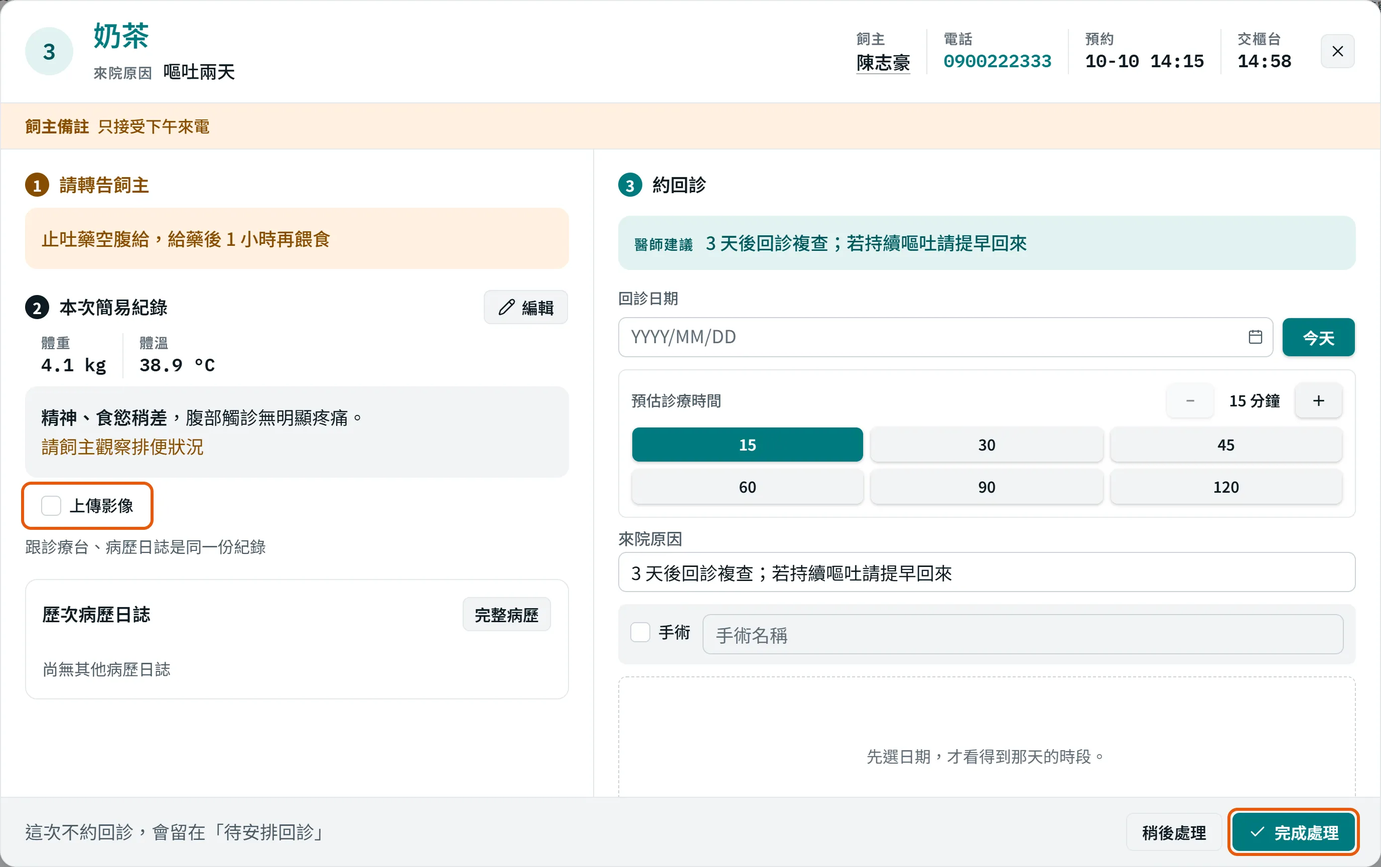
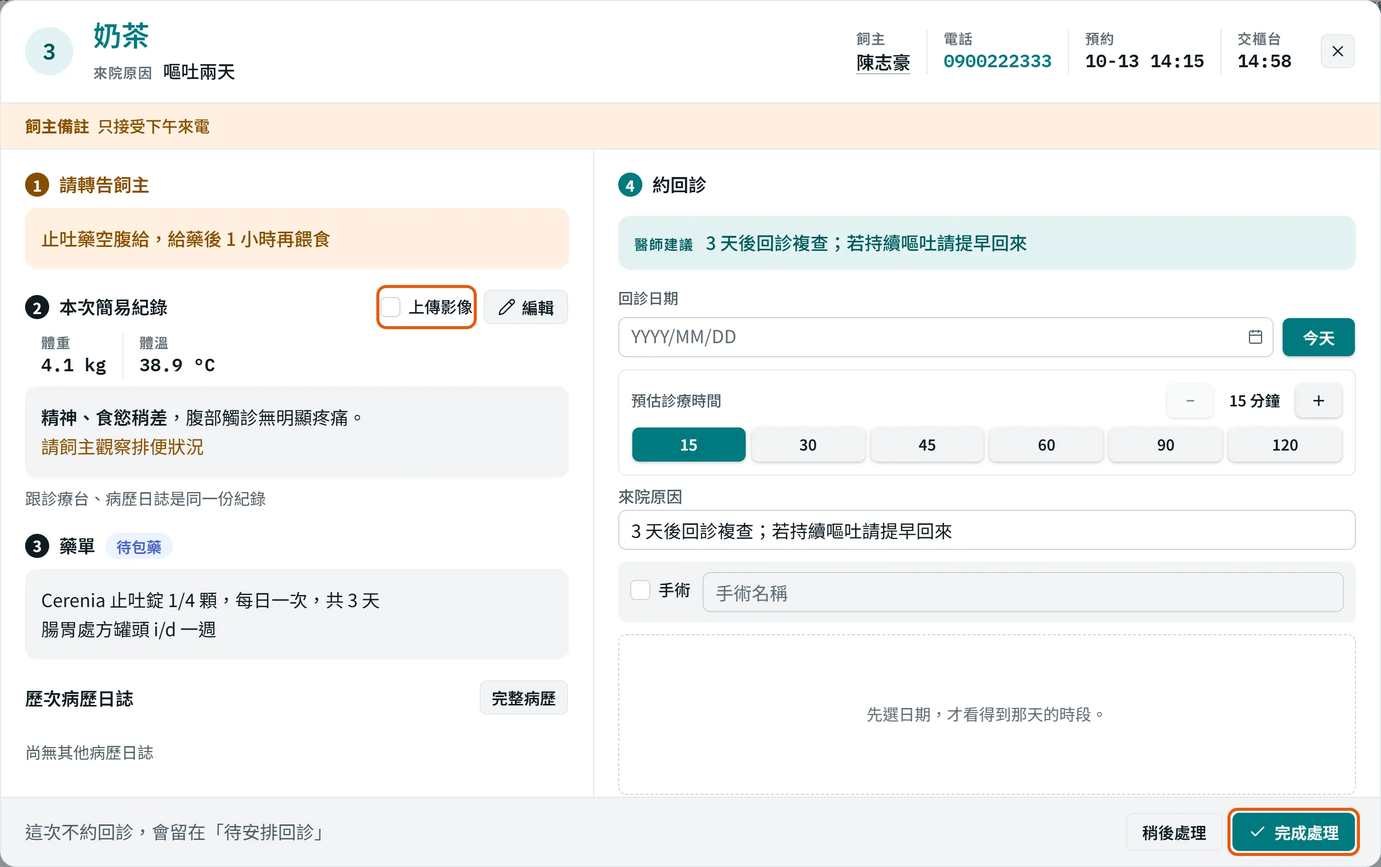
feat: update image upload handling in appointment workflow
- Modify the `imageUpload` field behavior to store the state in the UI and only send it to the backend upon completing the appointment.
- Update the `complete` action to include the `imageUpload` state, ensuring it reflects the current selection.
- Enhance the `HandoffSheet` component to manage the image upload checkbox, linking it to the appointment's state.
- Adjust the `STYLE_GUIDE.md` to reflect changes in the HandoffSheet layout and functionality.
- Add tests to verify the correct behavior of the image upload feature during the appointment completion process.

diff --git a/client/src/components/HandoffSheet.vue b/client/src/components/HandoffSheet.vue
@@ -1,14 +1,18 @@
 <script setup>
 import { usePetClinicalNotes } from '../composables/usePetClinicalNotes';
 import { apiErrorMessage } from '../lib/apiError.js';
-import { computed, nextTick, ref, watch } from 'vue';
+import { computed, nextTick, onBeforeUnmount, onMounted, ref, watch } from 'vue';
 import PatientLink from './PatientLink.vue';
 import { CalendarCheck, Check, Pencil, Undo2, X } from '@lucide/vue';
 import { http } from '../api/http';
+import { getSocket } from '../api/socket';
 import { useAppointmentNotifier } from '../composables/useAppointmentNotifier';
 import { useStaffIdentity } from '../composables/useStaffIdentity';
 import { describeVisitChanges } from '../lib/appointmentNotifications';
 import { workflowState } from '../../../shared/appointmentWorkflow.js';
+import { medicationLabel } from '../../../shared/medicationWorkflow.js';
+import { medicationStageTone } from '../lib/clinicalNoteDisplay.js';
+import ConfirmDialog from './ConfirmDialog.vue';
 import { DEFAULT_ESTIMATED_DURATION_MINUTES, appointmentSlotErrors } from '../lib/appointmentTime';
 import AppointmentSlotPicker from './AppointmentSlotPicker.vue';
 import SurgeryField from './SurgeryField.vue';
@@ -33,11 +37,11 @@ import RichTextEditor from './RichTextEditor.vue';
 import { richTextToPlain } from '../../../shared/richText.js';
 import { Dialog, DialogContent, DialogDescription, DialogTitle } from './ui/dialog';
 
-// 櫃台處理視窗。左欄「跟飼主說」照當面講話的順序編號：請轉告飼主 → 本次簡易紀錄，下面接著歷次病歷日誌
+// 櫃台處理視窗。左欄「跟飼主說」照當面講話的順序編號：請轉告飼主 → 本次簡易紀錄 → 藥單（交藥），下面接著歷次病歷日誌
 // （飼主常會問「上次開的藥還能吃嗎」）；轉告事項最容易漏掉，所以放最上面並用警示底色。
 // 右欄是約回診：大部分就診都會當場約，所以打開就看得到時段格，醫師建議就貼在時段旁邊。
 // 舊版是左欄一路往下疊、時段格在最底下要捲，右欄常駐日誌，使用者覺得資訊太散、找不到重點。
-// 收費與領藥櫃台直接處理，系統不計價，所以沒有「醫師交辦」這一段。
+// 收費櫃台直接處理，系統不計價，所以沒有「醫師交辦」這一段；領藥走藥單的「確認領藥」，在 ③ 就能按。
 const props = defineProps({
   appointment: { type: Object, required: true },
   // 貓咪／飼主備註（patientNotesFor 的回傳）。飼主就站在櫃台前，「處置前先說明費用」這類事要先看到。
@@ -177,16 +181,15 @@ async function saveNote() {
     error.value = err.response?.data?.message || err.message || '儲存失敗，請重試';
   } finally { busy.value = false; }
 }
-// 「上傳影像」一勾就存：後端同一次把它寫進病歷日誌，並新增（取消勾選則收掉）一筆院內待辦。
-async function toggleImageUpload(checked) {
-  if (busy.value || state.value.completed) return;
-  busy.value = true;
-  error.value = '';
-  try {
-    await run('clinical', { imageUpload: checked === true, staff: identity.value }, { silentToast: true });
-  } catch (err) {
-    error.value = apiErrorMessage(err, '儲存失敗，請重試');
-  } finally { busy.value = false; }
+// 「上傳影像」先記在這個視窗，按完成處理才跟著送出：後端同一個 transaction 寫進病歷日誌，並新增（取消勾選則收掉）
+// 一筆院內待辦。勾錯、改主意、按稍後處理都不會先建待辦又收掉。別台裝置改了（例如退回處理中後重新完成）就跟著更新。
+const imageUploadDraft = ref(Boolean(props.appointment.imageUpload));
+watch(() => props.appointment.imageUpload, (value) => { imageUploadDraft.value = Boolean(value); });
+// 只有勾選跟目前存的不同才送：從沒勾過（null）的就診不能在完成時被寫成「否」，病歷日誌會多出一行「上傳影像：否」。
+function imageUploadChange() {
+  return imageUploadDraft.value === Boolean(props.appointment.imageUpload)
+    ? {}
+    : { imageUpload: imageUploadDraft.value, staff: identity.value };
 }
 function close() { if (!busy.value) emit('close'); }
 
@@ -199,6 +202,54 @@ async function run(action, values = {}, options = {}) {
 
 loadNotes();
 loadDepositState();
+
+// ③ 藥單：內容就是這次看診的藥單（診療台開的，這裡只看不改，要改得請醫師取回）；
+// 階段讀送交櫃台時建立的那張藥單（medicationOrderId）。交藥是這一步要做的事，所以待領藥時直接在這裡確認領藥——
+// 跟藥單面板的「確認領藥」同一支 API、同一句確認，不另立規則。
+const medicationOrder = ref(null);
+const medicationError = ref('');
+const collecting = ref(false);
+const confirmingCollect = ref(false);
+let medicationRequest = 0;
+async function loadMedicationOrder() {
+  const id = props.appointment.medicationOrderId;
+  const request = ++medicationRequest;
+  if (!id) {
+    medicationOrder.value = null;
+    return;
+  }
+  try {
+    const { data } = await http.get(`/medications/${id}`);
+    if (request === medicationRequest) medicationOrder.value = data;
+  } catch (err) {
+    if (request === medicationRequest) medicationError.value = apiErrorMessage(err, '藥單讀取失敗，請重新開啟');
+  }
+}
+watch(() => props.appointment.medicationOrderId, () => {
+  medicationError.value = '';
+  loadMedicationOrder();
+}, { immediate: true });
+// 藥單面板或醫師那邊動了藥單（包好、退回、改內容），伺服器只廣播「請重讀」。
+const socket = getSocket();
+onMounted(() => socket.on('medication:updated', loadMedicationOrder));
+onBeforeUnmount(() => socket.off('medication:updated', loadMedicationOrder));
+
+async function collectMedication() {
+  const order = medicationOrder.value;
+  if (!order || collecting.value) return;
+  collecting.value = true;
+  medicationError.value = '';
+  try {
+    const { data } = await http.post(`/medications/${order._id}/actions/collect`, { version: order.__v });
+    medicationOrder.value = data;
+  } catch (err) {
+    medicationError.value = apiErrorMessage(err, '確認領藥失敗，請重試');
+    loadMedicationOrder();
+  } finally {
+    collecting.value = false;
+    confirmingCollect.value = false;
+  }
+}
 
 function handleHistoricalNoteSaved({ note, content }) {
   notifyChat(props.appointment, 'visit_data', {
@@ -293,7 +344,7 @@ async function complete() {
   busy.value = true;
   try {
     if (followUpStarted.value) await run('followup', followUpPayload(), { silentToast: true });
-    await run('complete');
+    await run('complete', imageUploadChange());
     emit('close');
   } catch (err) {
     error.value = err.response?.data?.message || err.message || '操作失敗，請稍後重試';
@@ -385,10 +436,16 @@ async function reopen() {
             </section>
 
             <section class="space-y-2" aria-labelledby="desk-note-heading">
-              <div class="flex items-center gap-2.5">
+              <div class="flex flex-wrap items-center gap-2.5">
                 <span class="flex size-6 shrink-0 items-center justify-center rounded-full bg-foreground text-xs font-bold text-card" aria-hidden="true">2</span>
                 <h3 id="desk-note-heading" class="text-base font-semibold">本次簡易紀錄</h3>
-                <Button v-if="!editingNote && !state.completed" variant="secondary" size="sm" class="ml-auto" :disabled="busy" @click="startEditNote"><Pencil stroke-width="1.75" />編輯</Button>
+                <!-- 上傳影像是這一段的選項，放標題列：夾在紀錄框和它的說明、儲存鈕中間時，說明看起來像在講上傳影像。
+                     按完成處理才送出，送出後出現在病歷日誌，並新增一筆院內待辦。 -->
+                <label for="desk-image-upload" class="ml-auto flex min-h-9 cursor-pointer items-center gap-2 text-sm font-medium">
+                  <Checkbox id="desk-image-upload" :model-value="imageUploadDraft" :disabled="busy || state.completed" @update:model-value="imageUploadDraft = $event === true" />
+                  上傳影像
+                </label>
+                <Button v-if="!editingNote && !state.completed" variant="secondary" size="sm" :disabled="busy" @click="startEditNote"><Pencil stroke-width="1.75" />編輯</Button>
               </div>
               <!-- 體重、體溫是這次看診的資料，跟紀錄放同一段、排在紀錄上面（講紀錄時常順便說「今天幾公斤」）。
                    這裡只看不改：量測是診療台的欄位。沒量就留白，格子照畫。 -->
@@ -407,11 +464,6 @@ async function reopen() {
                 <p v-else class="my-2">（空白）</p>
                 <Button variant="secondary" size="sm" :disabled="busy" @click="resetNote">採用最新內容</Button>
               </Alert>
-              <!-- 勾了會出現在病歷日誌，並新增一筆院內待辦；一勾就存，不必按儲存。 -->
-              <label for="desk-image-upload" class="flex min-h-10 w-fit cursor-pointer items-center gap-2 px-4 text-sm font-medium">
-                <Checkbox id="desk-image-upload" :model-value="Boolean(appointment.imageUpload)" :disabled="busy || state.completed" @update:model-value="toggleImageUpload" />
-                上傳影像
-              </label>
               <div class="flex flex-wrap items-center justify-between gap-2">
                 <p class="text-sm text-muted-foreground" role="status">{{ state.completed ? '已結案，退回處理中才能編輯' : editingNote ? '按「儲存」才會保存；取消或關閉會放棄修改' : noteSaved ? '已儲存' : '跟診療台、病歷日誌是同一份紀錄' }}</p>
                 <div v-if="editingNote" class="flex gap-2">
@@ -419,6 +471,19 @@ async function reopen() {
                   <Button size="sm" :disabled="busy || noteConflict || state.completed" @click="saveNote">儲存</Button>
                 </div>
               </div>
+            </section>
+
+            <section class="space-y-2" aria-labelledby="desk-medication-heading">
+              <div class="flex flex-wrap items-center gap-2.5">
+                <span class="flex size-6 shrink-0 items-center justify-center rounded-full bg-foreground text-xs font-bold text-card" aria-hidden="true">3</span>
+                <h3 id="desk-medication-heading" class="text-base font-semibold">藥單</h3>
+                <Badge v-if="medicationOrder" variant="status" :class="medicationStageTone(medicationOrder.status)">{{ medicationLabel(medicationOrder.status) }}</Badge>
+                <Badge v-if="medicationOrder?.needsRepack" variant="status" class="bg-danger-surface text-danger">需重新包藥</Badge>
+                <Button v-if="medicationOrder?.status === 'ready'" variant="soft" size="sm" class="ml-auto" :disabled="collecting" @click="confirmingCollect = true">確認領藥</Button>
+              </div>
+              <!-- 內容只看不改（醫師在診療台開的）。跟紀錄一樣：沒開就留白，格子照畫。 -->
+              <RichText class="min-h-[calc(1lh+2rem)] wrap-anywhere rounded-xl bg-sunken p-4 leading-relaxed" :text="appointment.prescription || ''" />
+              <p v-if="medicationError" class="text-sm text-danger" role="alert">{{ medicationError }}</p>
             </section>
 
             <!-- 歷次病歷日誌直接展開在下面（使用者要求，不收進頁籤）：飼主常會問「上次開的藥還能吃嗎」。 -->
@@ -435,9 +500,10 @@ async function reopen() {
             />
           </div>
 
-          <section class="space-y-4 px-6 py-5 lg:min-h-0 lg:overflow-y-auto lg:overscroll-contain" aria-labelledby="desk-followup-heading">
+          <!-- 一律預留捲軸的位置：約回診的時段選擇器依自己的寬度決定並排或上下疊，捲軸出現與否（例如多了保證金那塊）不能讓同一個視窗大小換排法。 -->
+          <section class="space-y-4 px-6 py-5 lg:min-h-0 lg:overflow-y-auto lg:overscroll-contain lg:[scrollbar-gutter:stable]" aria-labelledby="desk-followup-heading">
             <div class="flex items-center gap-2.5">
-              <span class="flex size-6 shrink-0 items-center justify-center rounded-full bg-primary text-xs font-bold text-primary-foreground" aria-hidden="true">3</span>
+              <span class="flex size-6 shrink-0 items-center justify-center rounded-full bg-primary text-xs font-bold text-primary-foreground" aria-hidden="true">4</span>
               <h3 id="desk-followup-heading" class="text-base font-semibold">約回診</h3>
             </div>
             <!-- 標籤跟內容同一行，標籤不另佔一行。醫師沒寫也照樣留這一格、內容空白，不補說明文字。 -->
@@ -514,6 +580,15 @@ async function reopen() {
           </div>
         </footer>
       </div>
+      <ConfirmDialog
+        :open="confirmingCollect"
+        :title="`確認 ${appointment.petName} 已領藥？`"
+        :description="`請核對飼主 ${medicationOrder?.ownerName || appointment.ownerName || ''}（${medicationOrder?.ownerPhone || appointment.ownerPhone || ''}）與藥包，確認已交付。`"
+        confirm-label="確認領藥"
+        :loading="collecting"
+        @update:open="confirmingCollect = $event"
+        @confirm="collectMedication"
+      />
     </DialogContent>
   </Dialog>
 </template>

diff --git a/docs/manual/index.html b/docs/manual/index.html
@@ -208,7 +208,7 @@ footer.end { color: var(--subtle); font-size: 14px; text-align: center; }
   <main>
     <header class="cover">
       <h1>診所系統使用手冊</h1>
-      <p class="lead">給醫師與櫃台：按下每一顆按鈕之後，系統在背後會自動做哪些事。很多事情是連鎖發生的，例如送交櫃台時藥單就進了待包藥、勾「上傳影像」就多一筆待辦、取消報到時病歷日誌會暫時拿掉。知道這些，就不會在畫面上找不到東西。</p>
+      <p class="lead">給醫師與櫃台：按下每一顆按鈕之後，系統在背後會自動做哪些事。很多事情是連鎖發生的，例如送交櫃台時藥單就進了待包藥、勾「上傳影像」再完成處理就多一筆待辦、取消報到時病歷日誌會暫時拿掉。知道這些，就不會在畫面上找不到東西。</p>
       <div class="legend">
         <span><span class="who vet">醫師</span> 醫師做的事</span>
         <span><span class="who desk">櫃台</span> 櫃台做的事</span>
@@ -462,20 +462,21 @@ footer.end { color: var(--subtle); font-size: 14px; text-align: center; }
 
     <section class="chapter" id="desk">
       <h2><span class="n">07</span>櫃台處理</h2>
-      <p class="sub">掛號台按 <span class="ui">處理</span>。視窗照跟飼主講話的順序排：① 請轉告飼主、② 本次簡易紀錄、③ 約回診。</p>
+      <p class="sub">掛號台按 <span class="ui">處理</span>。視窗照跟飼主講話的順序排：① 請轉告飼主、② 本次簡易紀錄、③ 藥單、④ 約回診。</p>
       <figure class="shot">
-        <div class="frame"><img src="images/11-handoff-sheet.webp" alt="櫃台處理視窗：請轉告飼主、本次簡易紀錄與上傳影像、約回診時段" loading="lazy"></div>
+        <div class="frame"><img src="images/11-handoff-sheet.webp" alt="櫃台處理視窗：請轉告飼主、本次簡易紀錄與上傳影像、藥單、約回診時段" loading="lazy"></div>
         <figcaption>櫃台處理視窗。框起來的是「上傳影像」勾選框與 <span class="ui">完成處理</span>。</figcaption>
       </figure>
       <div class="flow">
         <div class="row"><span class="who desk">櫃台</span><div><ul>
           <li>① 請轉告飼主：有內容時是橘底，一定要講。</li>
           <li>② 本次簡易紀錄：看體重、體溫與醫師的紀錄；下面直接展開這隻貓的歷次病歷日誌。</li>
-          <li>③ 約回診：上面是醫師建議。選日期、時段，按 <span class="ui">完成處理</span> 時一起約好。</li>
+          <li>③ 藥單：醫師開的藥，旁邊是藥單現在的階段（待包藥、待領藥…）。這裡只能看，內容要改請醫師取回。到了<strong>待領藥</strong>，交藥給飼主時直接按 <span class="ui">確認領藥</span>，跟藥單面板的確認領藥是同一件事。</li>
+          <li>④ 約回診：上面是醫師建議。選日期、時段，按 <span class="ui">完成處理</span> 時一起約好。</li>
           <li><span class="ui">稍後處理</span> 只是關掉視窗，什麼都不改。</li>
         </ul></div></div>
         <div class="row auto"><span class="who auto">系統自動</span><div><ul>
-          <li><strong>勾「上傳影像」</strong>：馬上新增一筆待辦「上傳影像 #貓咪名」，病歷日誌多一列「上傳影像：是」。那筆待辦被完成時，日誌改成「已完成」加完成時間。取消勾選會把還沒完成的待辦收掉，日誌改成「否」。</li>
+          <li><strong>勾「上傳影像」</strong>：先記在視窗裡，按 <span class="ui">完成處理</span> 時才一起送出（按 <span class="ui">稍後處理</span> 關掉就不算）。送出後新增一筆待辦「上傳影像 #貓咪名」，病歷日誌多一列「上傳影像：是」。那筆待辦被完成時，日誌改成「已完成」加完成時間。取消勾選會把還沒完成的待辦收掉，日誌改成「否」。</li>
           <li><strong>約回診</strong>：同時建立下一筆掛號（回診）。之後要改時段，在已約好的回診上按 <span class="ui">修改</span>。這筆回診被取消或刪掉時，這次看診會回到「待安排回診」，可以重新約。保證金規則跟一般掛號一樣。</li>
           <li><strong>完成處理</strong>：收回號碼牌，這次看診結束並鎖定，聊天室通知。</li>
         </ul></div></div>
@@ -713,7 +714,7 @@ footer.end { color: var(--subtle); font-size: 14px; text-align: center; }
       <ul>
         <li>「明天叫貨」「回電給某某」這類院內雜事，全院共用。打 # 可以標記貓咪（不會放進暫存區）。</li>
         <li>星號＝置頂；可以設期限。勾起來＝完成，取消勾選＝改回未完成。</li>
-        <li><span class="who auto">系統自動</span> 櫃台勾「上傳影像」會新增一筆；完成它，那次看診的病歷日誌會記下完成時間。</li>
+        <li><span class="who auto">系統自動</span> 櫃台勾「上傳影像」並完成處理會新增一筆；完成它，那次看診的病歷日誌會記下完成時間。</li>
       </ul>
     </section>
 

diff --git a/server/src/lib/appointmentWorkflow.js b/server/src/lib/appointmentWorkflow.js
@@ -182,6 +182,13 @@ export function assertWorkflowVersion(appointment, version) {
 }
 
 // labItems：這次掛號範本裡的檢驗項目（route 讀範本後傳進來），用來驗證 labValues。
+// 「上傳影像」：沒帶就不動；帶了要是 true／false。勾或取消造成的院內待辦增減在路由（同一個 transaction）。
+function applyImageUpload(appointment, value) {
+  if (value === undefined) return;
+  if (typeof value !== 'boolean') throw workflowError('上傳影像的格式不正確');
+  appointment.imageUpload = value;
+}
+
 export function applyWorkflowAction(appointment, action, body, now = new Date(), { labItems = [] } = {}) {
   if (!['arrived', 'pending_checkout', 'completed'].includes(appointment.status) || !appointment.petId) {
     throw workflowError('請先完成報到，才能處理看診與交辦');
@@ -203,10 +210,7 @@ export function applyWorkflowAction(appointment, action, body, now = new Date(),
       appointment[field] = value;
     }
     if (body.labValues !== undefined) appointment.labValues = mergeLabValues(appointment.labValues, body.labValues, labItems);
-    if (body.imageUpload !== undefined) {
-      if (typeof body.imageUpload !== 'boolean') throw workflowError('上傳影像的格式不正確');
-      appointment.imageUpload = body.imageUpload;
-    }
+    applyImageUpload(appointment, body.imageUpload);
   } else if (action === 'start') {
     if (!state.handedOff) appointment.visitStartedAt ||= now;
   } else if (action === 'unstart') {
@@ -227,6 +231,8 @@ export function applyWorkflowAction(appointment, action, body, now = new Date(),
   } else if (action === 'complete') {
     if (!state.handedOff) throw workflowError('請等醫師完成看診並送交櫃台', 409);
     if (state.completed) throw workflowError('這筆就診已完成處理', 409);
+    // 櫃台處理視窗的「上傳影像」在按完成處理時才一起送出：勾錯、改主意、按稍後處理，都不會先建待辦又收掉。
+    applyImageUpload(appointment, body.imageUpload);
     appointment.deskCompletedAt = now;
   } else if (action === 'request-reopen') {
     if (!state.completed) throw workflowError('只有已完成的就診可以申請修改', 409);

diff --git a/client/src/components/AppointmentSlotPicker.vue b/client/src/components/AppointmentSlotPicker.vue
@@ -73,7 +73,8 @@ function changeDuration(delta) {
 
 <template>
   <div :class="split ? '@container' : ''">
-  <div :class="split ? 'grid gap-3 @3xl:grid-cols-[18.75rem_minmax(0,1fr)] @3xl:gap-6' : 'space-y-3'">
+  <!-- 並排的門檻 42rem：扣掉左欄 18.75rem，時段格還有約 22rem（四欄每格約 85px，放得下「14:30」）。 -->
+  <div :class="split ? 'grid gap-3 @2xl:grid-cols-[18.75rem_minmax(0,1fr)] @2xl:gap-6' : 'space-y-3'">
   <div class="space-y-3">
     <div class="space-y-2">
       <Label class="text-xs font-medium">{{ label }}<template v-if="required"><span class="text-danger" aria-hidden="true">*</span><span class="sr-only">必填</span></template></Label>
@@ -92,8 +93,9 @@ function changeDuration(delta) {
           <Button type="button" variant="secondary" size="sm" class="h-9 min-w-12 px-2 text-xs font-bold shadow-sm" :disabled="duration >= MAX_ESTIMATED_DURATION_MINUTES" aria-label="增加 15 分鐘" @click="changeDuration(15)">＋</Button>
         </div>
       </div>
-      <div :class="split ? 'grid grid-cols-3 gap-1.5' : 'flex flex-wrap gap-1.5'">
-        <Button v-for="minutes in [15, 30, 45, 60, 90, 120]" :key="minutes" type="button" size="sm" class="h-9 min-w-12 px-2 text-xs font-semibold shadow-sm" :variant="duration === minutes ? 'default' : 'secondary'" @click="duration = minutes">{{ minutes }}</Button>
+      <!-- 並排（約回診）時六個一排、平分寬度：左欄只有 18.75rem，按鈕不留最小寬度與左右內距才排得下。 -->
+      <div :class="split ? 'grid grid-cols-6 gap-1' : 'flex flex-wrap gap-1.5'">
+        <Button v-for="minutes in [15, 30, 45, 60, 90, 120]" :key="minutes" type="button" size="sm" class="h-9 text-xs font-semibold shadow-sm" :class="split ? 'min-w-0 px-0' : 'min-w-12 px-2'" :variant="duration === minutes ? 'default' : 'secondary'" @click="duration = minutes">{{ minutes }}</Button>
       </div>
     </div>
     <slot name="aside" />

diff --git a/server/src/lib/appointmentWorkflow.test.js b/server/src/lib/appointmentWorkflow.test.js
@@ -94,6 +94,24 @@ test('reclaiming a visit that was never handed off is refused', () => {
   assert.throws(() => applyWorkflowAction(p, 'reclaim', {}), { status: 409 });
 });
 
+test('完成處理時一起送出「上傳影像」；沒帶就不動，格式不對就擋', () => {
+  const ticked = appointment();
+  applyWorkflowAction(ticked, 'handoff', {});
+  applyWorkflowAction(ticked, 'complete', { imageUpload: true });
+  assert.equal(ticked.imageUpload, true);
+  assert.equal(ticked.status, 'completed');
+
+  const untouched = appointment();
+  applyWorkflowAction(untouched, 'handoff', {});
+  applyWorkflowAction(untouched, 'complete', {});
+  assert.equal(untouched.imageUpload, undefined);
+
+  const invalid = appointment();
+  applyWorkflowAction(invalid, 'handoff', {});
+  assert.throws(() => applyWorkflowAction(invalid, 'complete', { imageUpload: 'yes' }), /上傳影像的格式不正確/);
+  assert.equal(invalid.deskCompletedAt, undefined);
+});
+
 test('the desk cannot complete before the vet hands off, and cannot complete twice', () => {
   const p = appointment();
   assert.throws(() => applyWorkflowAction(p, 'complete', {}), { status: 409 });

diff --git a/client/src/components/ClinicalNotesPanel.vue b/client/src/components/ClinicalNotesPanel.vue
@@ -44,7 +44,9 @@ onBeforeUnmount(() => {
 </script>
 
 <template>
-  <section class="rounded-xl border border-border bg-field/60 p-4" :class="fill ? 'flex h-full min-h-0 flex-col' : ''">
+  <!-- 外層不畫框：每一則日誌（ClinicalNoteEntry）本身就是卡片，用的地方（處理視窗、診療台右欄、藥單、病歷速覽）
+       外面也已經有自己的區塊，再包一層框就是框中框。標題列直接接卡片清單。 -->
+  <section :class="fill ? 'flex h-full min-h-0 flex-col' : ''">
     <div class="flex items-center justify-between gap-2">
       <h3 class="text-sm font-semibold sm:text-base">{{ title }}</h3>
       <Button v-if="petId" as-child variant="secondary" size="xs">

diff --git a/docs/STYLE_GUIDE.md b/docs/STYLE_GUIDE.md
@@ -213,7 +213,7 @@ DataCard title="貓咪清單" :count
 
 - 卡片左邊是貓（最左一顆圓：號碼牌或貓圖示；名字、初診徽章、手術／遲到徽章、來院原因、請轉告飼主、飼主備註），右邊對齊的三欄：飼主／電話（附複製鈕）／進度（只有狀態與時間，沒有小標題），最右是主要動作＋`RowActions`。卡片底色只在還沒報到時用遲到（紅）／手術（紫）。
 - **掛號視窗**（`AppointmentDialog`）是置中的雙欄 Modal：左欄誰、為什麼，右欄時段格（`SlotGrid`，15 分鐘一格、格內列已約的名字）。選了貓之後下面出現出席對照表與保證金欄位。
-- **櫃台處理視窗**（`HandoffSheet`，`size="2xl"`）：標頭一排（號碼牌｜貓、徽章、來院原因｜飼主規格欄＋預約、交櫃台、完成時間），飼主備註整條攤開在標頭下。左欄「跟飼主說」照講話順序編號：①請轉告飼主（有內容才用警示底，空的灰底——空的橘框像有事要講）②本次簡易紀錄（上面一排體重、體溫，下面「上傳影像」勾選框），歷次病歷日誌直接展開在下面；右欄 ③約回診：醫師建議在上（標籤與內容同一行），`AppointmentSlotPicker split` 讓日期、診療時間、來院原因、手術一窄欄、時段格在旁邊——大部分就診都會當場約回診，時段一打開就要看得到。底部左邊一句結果（「完成後會約 10/12（週一）14:30 回診」），右邊完成處理／退回處理中／核准修改。90rem 是右欄還能並排的下限。
+- **櫃台處理視窗**（`HandoffSheet`，`size="2xl"`）：標頭一排（號碼牌｜貓、徽章、來院原因｜飼主規格欄＋預約、交櫃台、完成時間），飼主備註整條攤開在標頭下。左欄「跟飼主說」照講話順序編號：①請轉告飼主（有內容才用警示底，空的灰底——空的橘框像有事要講）②本次簡易紀錄（「上傳影像」勾選框在標題列右邊、跟「編輯」並排——它是這一段的選項，夾在紀錄框和紀錄的說明、儲存鈕中間時，說明看起來像在講上傳影像；內容是一排體重、體溫，下面紀錄框）③藥單（唯讀內容，沒開也照畫一格留白；標題旁是藥單階段徽章，待領藥時同一排右邊一顆 `soft`「確認領藥」——交藥是這一步要做的事，跟藥單面板同一支 API、同一句確認），歷次病歷日誌直接展開在下面；右欄 ④約回診：醫師建議在上（標籤與內容同一行），`AppointmentSlotPicker split` 讓日期、診療時間、來院原因、手術一窄欄、時段格在旁邊——大部分就診都會當場約回診，時段一打開就要看得到。底部左邊一句結果（「完成後會約 10/12（週一）14:30 回診」），右邊完成處理／退回處理中／核准修改。90rem 是右欄還能並排的下限。約回診的時段選擇器依自己的寬度（container query，42rem 以上）決定左右並排或上下疊，所以右欄一律預留捲軸位置（`scrollbar-gutter: stable`）——不然多了保證金那塊、出現捲軸，同一個視窗大小就會換排法。
 - 搜尋是跨日的：有關鍵字時時間軸換成搜尋結果表（清單列樣式、不限日期、新到舊、分頁），點一列回到那一天、把卡片捲進畫面並框起來——電話裡問「我約哪一天」時不知道日期。
 
 ### 其他
